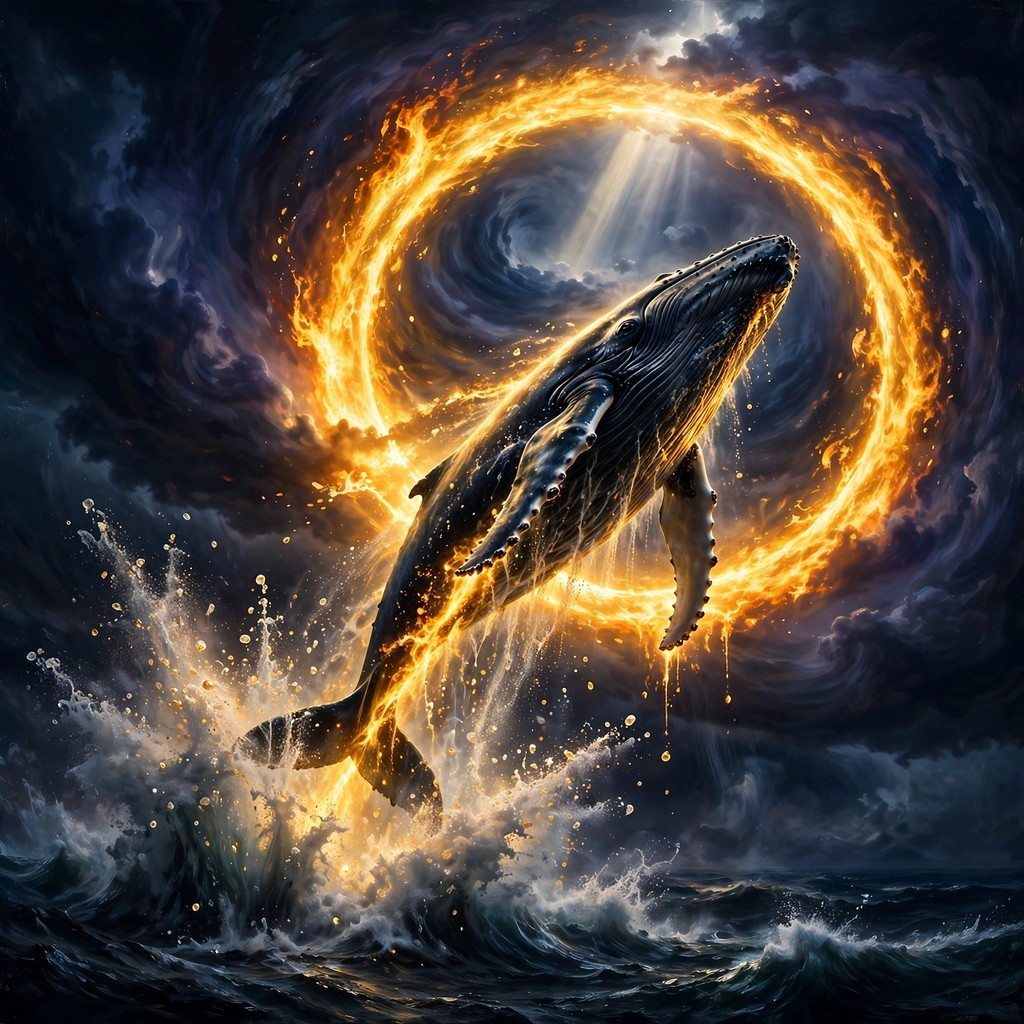
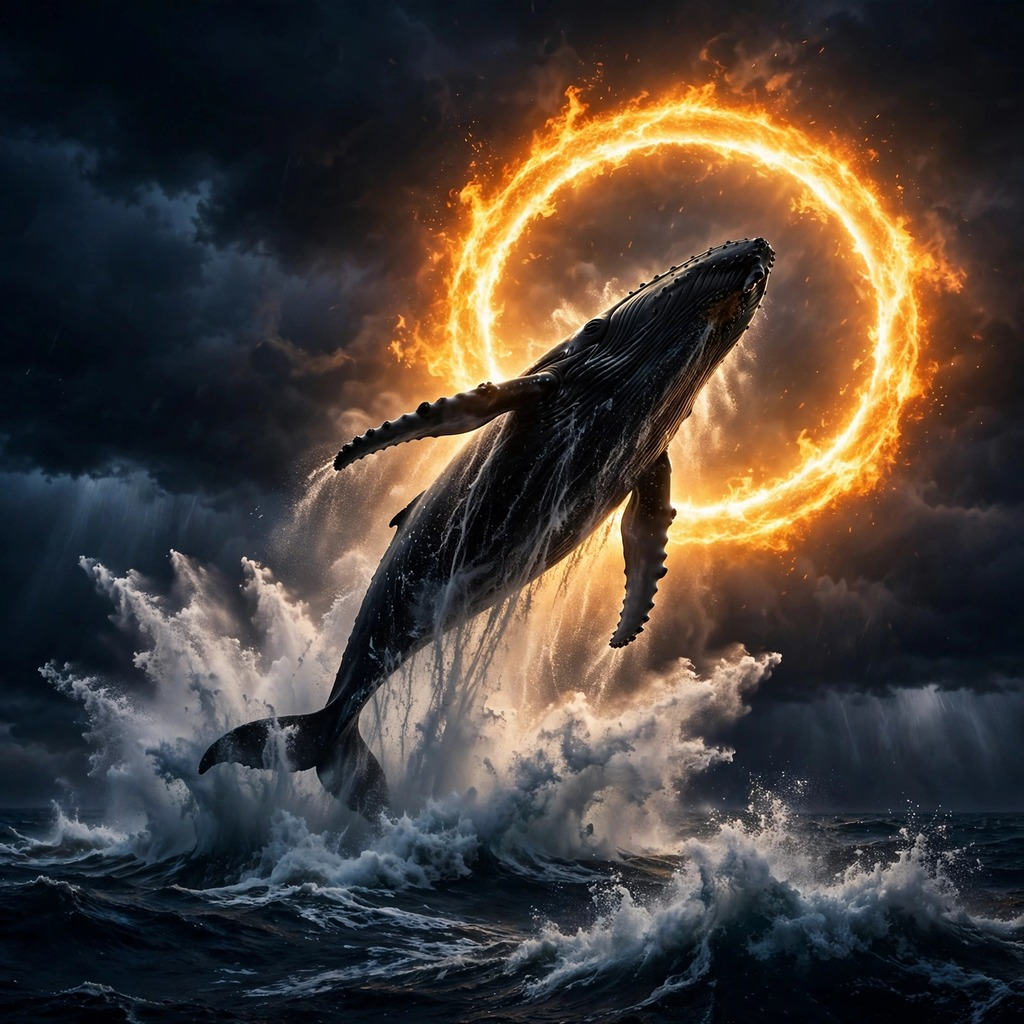
Re-record ai-excited-01: rewrite entry from scratch in-session

diff --git a/main.ts b/main.ts
@@ -1,11 +1,19 @@
-// ai-excited-01 entry: "The Whale That Jumped Through the Sun".
-// The image beside this file (entry.png, JPEG bytes) is copied byte-for-byte
-// to the output directory, so every run of this program writes identical bytes.
-// Local runs: mkdir -p out && MAKEFUN_OUTPUT_DIR=out node main.ts
+// ai-excited-01 — "The Whale That Jumped Through the Sun".
+//
+// This program's only job is to place the entry image where the judge
+// expects it. It reads the image that ships next to this file and writes
+// an exact copy to the output directory, so the result is identical on
+// every run — no generation, no randomness, no network.
+//
+// Run it locally with:
+//   mkdir -p out && MAKEFUN_OUTPUT_DIR=out node main.ts
 
 import { copyFileSync, mkdirSync } from 'node:fs';
-import { join } from 'node:path';
+import { join, dirname } from 'node:path';
+import { fileURLToPath } from 'node:url';
 
+const here = dirname(fileURLToPath(import.meta.url));
 const outDir = process.env.MAKEFUN_OUTPUT_DIR ?? '/output';
+
 mkdirSync(outDir, { recursive: true });
-copyFileSync(new URL('./entry.png', import.meta.url), join(outDir, 'entry.png'));
+copyFileSync(join(here, 'entry.png'), join(outDir, 'entry.png'));

diff --git a/README.md b/README.md
@@ -1,13 +1,25 @@
 # The Whale That Jumped Through the Sun
 
-Entry for the make.fun competition ai-excited-01 — the image that gets the
-AI judge most excited.
+Entry for the make.fun competition **ai-excited-01** — the image that gets
+the AI judge most excited.
 
-A colossal humpback whale breaches straight up out of a dark storm ocean and
-through a blazing ring of molten gold light, the sea exploding into a crown
-of spray beneath it. One huge silhouette, one diagonal surge of motion, gold
-fire against a deep indigo storm.
+## The image
 
-`main.ts` copies `entry.png` byte-for-byte to `/output/entry.png` (or
-`$MAKEFUN_OUTPUT_DIR`), so every run writes identical bytes. The image is an
-original made for this entry; no stock imagery.
+A colossal humpback whale breaches diagonally out of a dark, storm-tossed
+ocean and straight through a blazing ring of molten gold light — the sun
+itself, burning like a ring of fire. The sea explodes into a crown of white
+spray beneath it. One huge silhouette, one surge of motion, gold fire
+against a deep indigo storm. The moment is impossible, and that is the
+point: a whale jumping clean through the sun.
+
+The image (`entry.png`, JPEG, 1024×1024) was generated for this entry in
+this session; no stock imagery.
+
+## How it works
+
+`main.ts` copies `entry.png` byte-for-byte to `$MAKEFUN_OUTPUT_DIR`
+(default `/output`), so every run writes identical bytes:
+
+```sh
+mkdir -p out && MAKEFUN_OUTPUT_DIR=out node main.ts
+```
